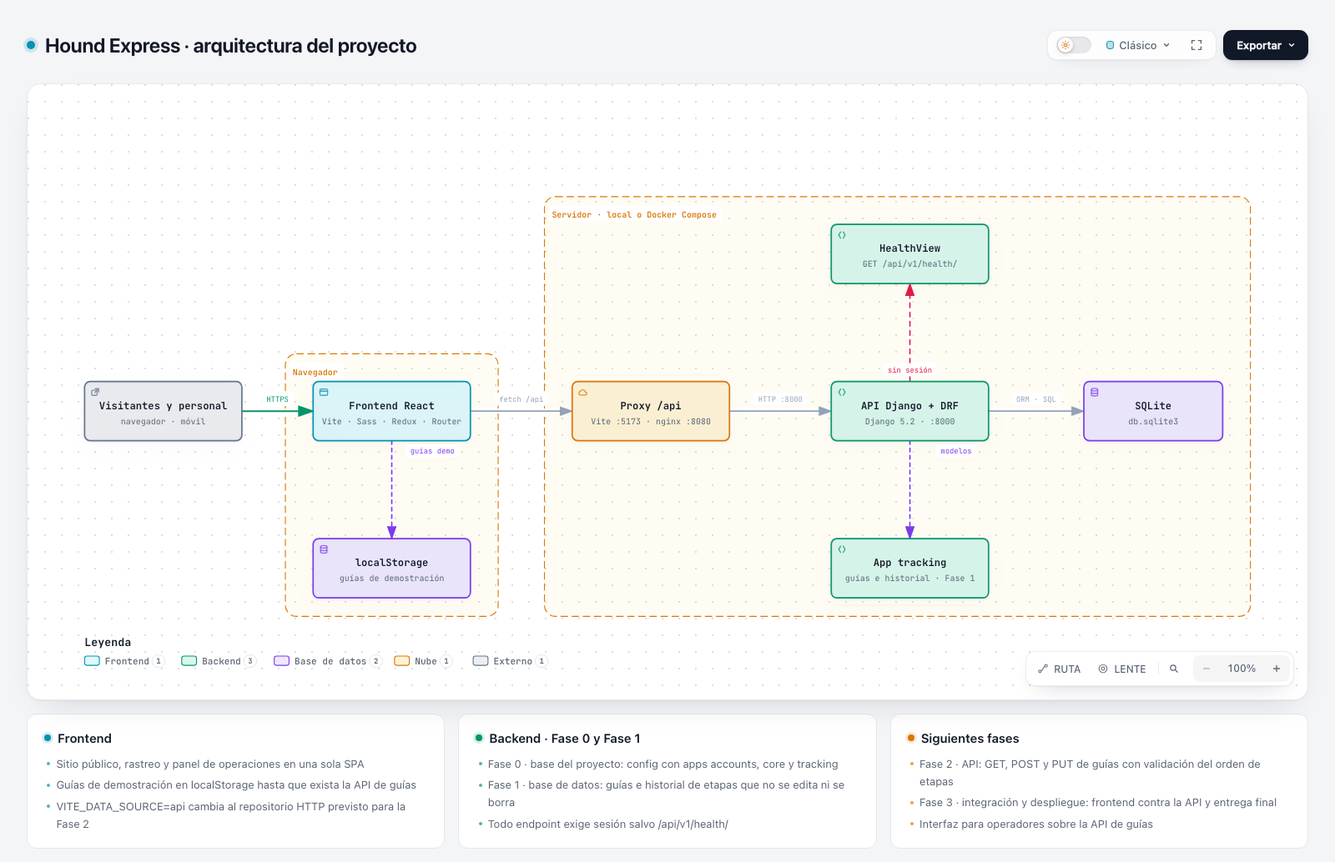
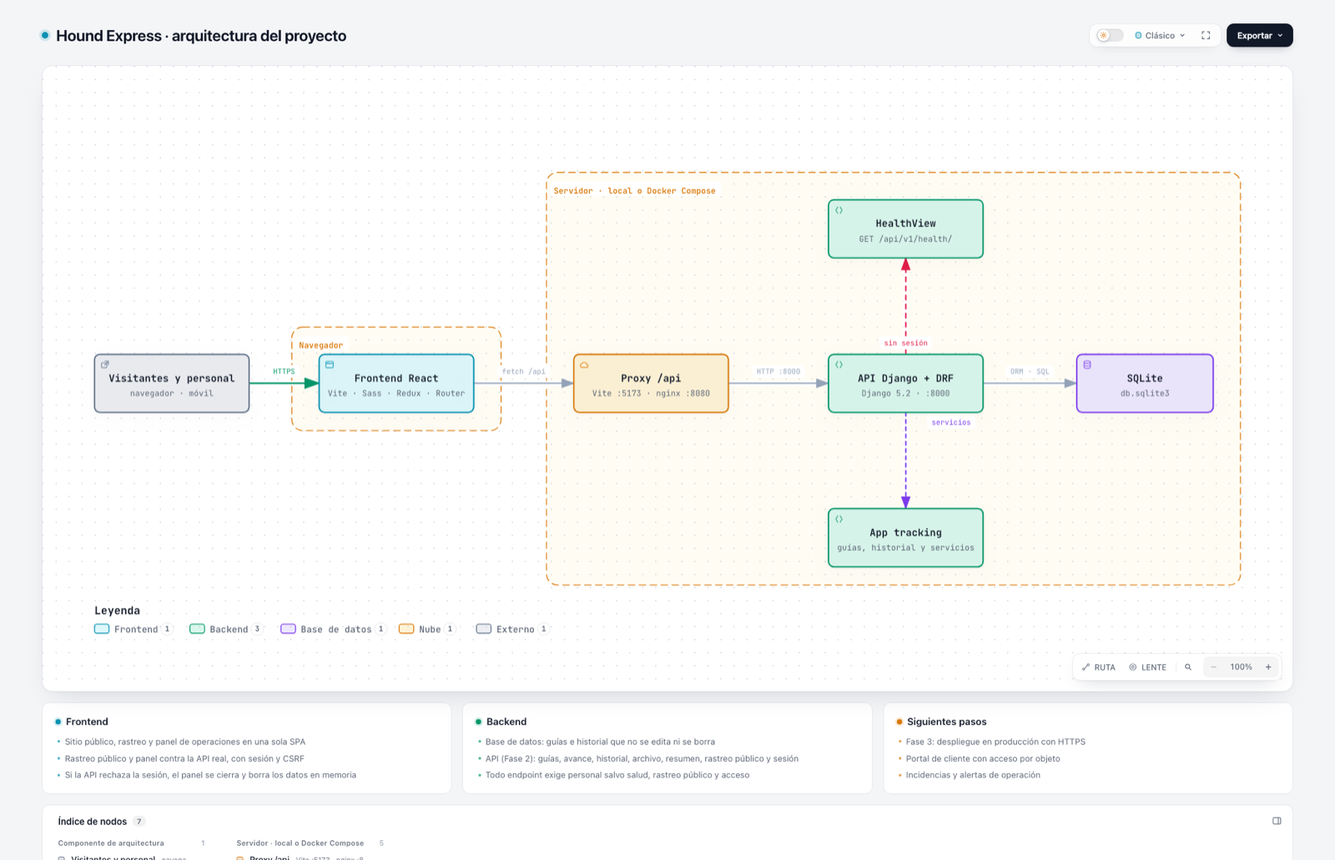
docs(diagramas): actualiza arquitectura y secuencia con la API real

diff --git a/docs/diagramas/arquitectura.html b/docs/diagramas/arquitectura.html
@@ -5013,7 +5013,7 @@ OTHER DEALINGS IN THE FONT SOFTWARE.
         <rect width="100%" height="100%" fill="url(#grid)" />
 
         <!-- Boundaries (behind everything) -->
-        <rect data-graph-role="structural-frame" data-composition-frame-kind="region" data-composition-frame-id="0" data-composition-frame-label="Navegador" x="257" y="270" width="230" height="284" rx="12" class="c-region" stroke-width="1"/>
+        <rect data-graph-role="structural-frame" data-composition-frame-kind="region" data-composition-frame-id="0" data-composition-frame-label="Navegador" x="257" y="270" width="230" height="114" rx="12" class="c-region" stroke-width="1"/>
 
         <rect data-graph-role="structural-frame" data-composition-frame-kind="region" data-composition-frame-id="1" data-composition-frame-label="Servidor · local o Docker Compose" x="537" y="100" width="763" height="454" rx="12" class="c-region" stroke-width="1"/>
 
@@ -5035,16 +5035,12 @@ OTHER DEALINGS IN THE FONT SOFTWARE.
           <path data-edge-from="api" data-edge-to="db" data-edge-label="ORM · SQL" data-edge-key="3" data-edge-id="api-db" data-composition-points="1017,332;1120,332" data-composition-crossover="halo" data-composition-independent="true" d="M 1017 332 L 1120 332" class="a-default" stroke-width="1.5" marker-end="url(#arrowhead)"/>
         </g>
         <g data-graph-role="automatic-crossover" style="--step:4">
-          <path data-graph-role="automatic-crossover-underlay" d="M 372 364 L 372 470" fill="none" stroke="var(--mask)" stroke-width="5.5" stroke-linecap="round" stroke-linejoin="round" pointer-events="none"/>
-          <path data-edge-from="spa" data-edge-to="storage" data-edge-label="guías demo" data-edge-key="4" data-edge-id="spa-storage" data-composition-points="372,364;372,470" data-composition-crossover="halo" d="M 372 364 L 372 470" class="a-dashed" stroke-width="1.5" marker-end="url(#arrowhead-dashed)"/>
+          <path data-graph-role="automatic-crossover-underlay" d="M 932 364 L 932 470" fill="none" stroke="var(--mask)" stroke-width="5.5" stroke-linecap="round" stroke-linejoin="round" pointer-events="none"/>
+          <path data-edge-from="api" data-edge-to="tracking" data-edge-label="servicios" data-edge-key="4" data-edge-id="api-tracking" data-composition-points="932,364;932,470" data-composition-crossover="halo" d="M 932 364 L 932 470" class="a-dashed" stroke-width="1.5" marker-end="url(#arrowhead-dashed)"/>
         </g>
         <g data-graph-role="automatic-crossover" style="--step:5">
-          <path data-graph-role="automatic-crossover-underlay" d="M 932 364 L 932 470" fill="none" stroke="var(--mask)" stroke-width="5.5" stroke-linecap="round" stroke-linejoin="round" pointer-events="none"/>
-          <path data-edge-from="api" data-edge-to="tracking" data-edge-label="modelos" data-edge-key="5" data-edge-id="api-tracking" data-composition-points="932,364;932,470" data-composition-crossover="halo" d="M 932 364 L 932 470" class="a-dashed" stroke-width="1.5" marker-end="url(#arrowhead-dashed)"/>
-        </g>
-        <g data-graph-role="automatic-crossover" style="--step:6">
           <path data-graph-role="automatic-crossover-underlay" d="M 932 300 L 932 194" fill="none" stroke="var(--mask)" stroke-width="5.5" stroke-linecap="round" stroke-linejoin="round" pointer-events="none"/>
-          <path data-edge-from="api" data-edge-to="health" data-edge-label="sin sesión" data-edge-key="6" data-edge-id="api-health" data-composition-points="932,300;932,194" data-composition-crossover="halo" data-composition-independent="true" d="M 932 300 L 932 194" class="a-security" stroke-width="1.5" marker-end="url(#arrowhead-security)"/>
+          <path data-edge-from="api" data-edge-to="health" data-edge-label="sin sesión" data-edge-key="5" data-edge-id="api-health" data-composition-points="932,300;932,194" data-composition-crossover="halo" data-composition-independent="true" d="M 932 300 L 932 194" class="a-security" stroke-width="1.5" marker-end="url(#arrowhead-security)"/>
         </g>
 
         <!-- Components -->
@@ -5108,27 +5104,15 @@ OTHER DEALINGS IN THE FONT SOFTWARE.
         <text data-detail="context" x="1195" y="346" class="t-muted" font-size="9" text-anchor="middle">db.sqlite3</text>
         </g>
 
-        <g id="node-storage" data-node-id="storage" data-node-label="localStorage" tabindex="0" role="button" aria-label="Enfocar localStorage, guías de demostración, Navegador" aria-pressed="false" data-node-kind="database" data-node-sublabel="guías de demostración" data-node-context="Navegador">
-          <title>localStorage · guías de demostración · Navegador</title>
-          <rect x="287" y="470" width="170" height="64" rx="6" class="c-mask"/>
-          <rect x="287" y="470" width="170" height="64" rx="6" class="c-database" stroke-width="1.5"/>
-          <g aria-hidden="true" data-semantic-sigil="database" class="semantic-sigil s-database" transform="translate(293 476) scale(0.6875)">
-            <ellipse cx="8" cy="4" rx="5" ry="2"/>
-            <path d="M3 4v8c0 1.1 2.2 2 5 2s5-.9 5-2V4M3 8c0 1.1 2.2 2 5 2s5-.9 5-2"/>
-          </g>
-          <text data-node-label="" data-detail-anchor="" x="372" y="500" class="t-primary" font-size="11" font-weight="600" text-anchor="middle">localStorage</text>
-        <text data-detail="context" x="372" y="516" class="t-muted" font-size="9" text-anchor="middle">guías de demostración</text>
-        </g>
-
-        <g id="node-tracking" data-node-id="tracking" data-node-label="App tracking" tabindex="0" role="button" aria-label="Enfocar App tracking, guías e historial · Fase 1, Servidor · local o Docker Compose" aria-pressed="false" data-node-kind="backend" data-node-sublabel="guías e historial · Fase 1" data-node-tag="modelos" data-node-context="Servidor · local o Docker Compose">
-          <title>App tracking · guías e historial · Fase 1 · Servidor · local o Docker Compose · modelos</title>
+        <g id="node-tracking" data-node-id="tracking" data-node-label="App tracking" tabindex="0" role="button" aria-label="Enfocar App tracking, guías, historial y servicios, Servidor · local o Docker Compose" aria-pressed="false" data-node-kind="backend" data-node-sublabel="guías, historial y servicios" data-node-tag="modelos" data-node-context="Servidor · local o Docker Compose">
+          <title>App tracking · guías, historial y servicios · Servidor · local o Docker Compose · modelos</title>
           <rect x="847" y="470" width="170" height="64" rx="6" class="c-mask"/>
           <rect x="847" y="470" width="170" height="64" rx="6" class="c-backend" stroke-width="1.5"/>
           <g aria-hidden="true" data-semantic-sigil="backend" class="semantic-sigil s-backend" transform="translate(853 476) scale(0.6875)">
             <path d="M6 3 3 8l3 5M10 3l3 5-3 5"/>
           </g>
           <text data-node-label="" data-detail-anchor="" x="932" y="500" class="t-primary" font-size="11" font-weight="600" text-anchor="middle">App tracking</text>
-        <text data-detail="context" x="932" y="516" class="t-muted" font-size="9" text-anchor="middle">guías e historial · Fase 1</text>
+        <text data-detail="context" x="932" y="516" class="t-muted" font-size="9" text-anchor="middle">guías, historial y servicios</text>
         <text data-detail="fine" x="932" y="526" class="t-backend" font-size="7" text-anchor="middle">modelos</text>
         </g>
 
@@ -5161,15 +5145,11 @@ OTHER DEALINGS IN THE FONT SOFTWARE.
           <rect x="1041.9" y="312" width="53.199999999999996" height="14" rx="3" class="c-mask"/>
           <text x="1068.5" y="322" class="t-edge-default" font-size="8" text-anchor="middle">ORM · SQL</text>
         </g>
-        <g data-detail="context" data-edge-from="spa" data-edge-to="storage" data-edge-label="guías demo" data-edge-key="4" data-edge-id="spa-storage">
-          <rect x="387" y="368" width="58" height="14" rx="3" class="c-mask"/>
-          <text x="416" y="378" class="t-edge-dashed" font-size="8" text-anchor="middle">guías demo</text>
+        <g data-detail="context" data-edge-from="api" data-edge-to="tracking" data-edge-label="servicios" data-edge-key="4" data-edge-id="api-tracking">
+          <rect x="955.4" y="368" width="53.199999999999996" height="14" rx="3" class="c-mask"/>
+          <text x="982" y="378" class="t-edge-dashed" font-size="8" text-anchor="middle">servicios</text>
         </g>
-        <g data-detail="context" data-edge-from="api" data-edge-to="tracking" data-edge-label="modelos" data-edge-key="5" data-edge-id="api-tracking">
-          <rect x="960.2" y="368" width="43.6" height="14" rx="3" class="c-mask"/>
-          <text x="982" y="378" class="t-edge-dashed" font-size="8" text-anchor="middle">modelos</text>
-        </g>
-        <g data-detail="context" data-edge-from="api" data-edge-to="health" data-edge-label="sin sesión" data-edge-key="6" data-edge-id="api-health">
+        <g data-detail="context" data-edge-from="api" data-edge-to="health" data-edge-label="sin sesión" data-edge-key="5" data-edge-id="api-health">
           <rect x="903" y="280" width="58" height="14" rx="3" class="c-mask"/>
           <text x="932" y="290" class="t-edge-security" font-size="8" text-anchor="middle">sin sesión</text>
         </g>
@@ -5392,32 +5372,32 @@ OTHER DEALINGS IN THE FONT SOFTWARE.
         </div>
         <ul>
           <li>Sitio público, rastreo y panel de operaciones en una sola SPA</li>
-          <li>Guías de demostración en localStorage hasta que exista la API de guías</li>
-          <li>VITE_DATA_SOURCE=api cambia al repositorio HTTP previsto para la Fase 2</li>
+          <li>Rastreo público y panel contra la API real, con sesión y CSRF</li>
+          <li>Si la API rechaza la sesión, el panel se cierra y borra los datos en memoria</li>
         </ul>
       </div>
 
       <div class="card">
         <div class="card-header">
           <div class="card-dot emerald"></div>
-          <h3>Backend · Fase 0 y Fase 1</h3>
+          <h3>Backend</h3>
         </div>
         <ul>
-          <li>Fase 0 · base del proyecto: config con apps accounts, core y tracking</li>
-          <li>Fase 1 · base de datos: guías e historial de etapas que no se edita ni se borra</li>
-          <li>Todo endpoint exige sesión salvo /api/v1/health/</li>
+          <li>Base de datos: guías e historial que no se edita ni se borra</li>
+          <li>API (Fase 2): guías, avance, historial, archivo, resumen, rastreo público y sesión</li>
+          <li>Todo endpoint exige personal salvo salud, rastreo público y acceso</li>
         </ul>
       </div>
 
       <div class="card">
         <div class="card-header">
           <div class="card-dot amber"></div>
-          <h3>Siguientes fases</h3>
+          <h3>Siguientes pasos</h3>
         </div>
         <ul>
-          <li>Fase 2 · API: GET, POST y PUT de guías con validación del orden de etapas</li>
-          <li>Fase 3 · integración y despliegue: frontend contra la API y entrega final</li>
-          <li>Interfaz para operadores sobre la API de guías</li>
+          <li>Fase 3: despliegue en producción con HTTPS</li>
+          <li>Portal de cliente con acceso por objeto</li>
+          <li>Incidencias y alertas de operación</li>
         </ul>
       </div>
     </div>

diff --git a/docs/diagramas/secuencia-consultas.html b/docs/diagramas/secuencia-consultas.html
@@ -5135,19 +5135,19 @@ OTHER DEALINGS IN THE FONT SOFTWARE.
         </g>
         </g>
 
-        <g data-edge-from="repo" data-edge-to="api" data-edge-label="GET /api/v1/guides/{n}/" data-edge-key="11" data-edge-id="api-http">
-          <path data-composition-edge-from="repo" data-composition-edge-to="api" data-composition-edge-id="api-http" data-composition-points="478,575;634.75,575" d="M 478 575 L 634.75 575" class="a-dashed" stroke-width="1.4" marker-end="url(#arrowhead-dashed)"/>
+        <g data-edge-from="repo" data-edge-to="api" data-edge-label="GET /api/v1/public/track/?numbers=n" data-edge-key="11" data-edge-id="api-http">
+          <path data-composition-edge-from="repo" data-composition-edge-to="api" data-composition-edge-id="api-http" data-composition-points="478,575;634.75,575" d="M 478 575 L 634.75 575" class="a-default" stroke-width="1.4" marker-end="url(#arrowhead)"/>
         <g data-detail="context">
-          <rect x="474.475" y="555" width="163.79999999999998" height="18" rx="3" class="c-mask"/>
-          <text x="556.375" y="565" class="t-edge-dashed" font-size="11" text-anchor="middle">GET /api/v1/guides/{n}/</text>
+          <rect x="434.875" y="555" width="243" height="18" rx="3" class="c-mask"/>
+          <text x="556.375" y="565" class="t-muted" font-size="11" text-anchor="middle">GET /api/v1/public/track/?numbers=n</text>
         </g>
         </g>
 
         <g data-edge-from="api" data-edge-to="db" data-edge-label="guía e historial" data-edge-key="12" data-edge-id="api-query">
-          <path data-composition-edge-from="api" data-composition-edge-to="db" data-composition-edge-id="api-query" data-composition-points="648.75,605;805.5,605" d="M 648.75 605 L 805.5 605" class="a-dashed" stroke-width="1.4" marker-end="url(#arrowhead-dashed)"/>
+          <path data-composition-edge-from="api" data-composition-edge-to="db" data-composition-edge-id="api-query" data-composition-points="648.75,605;805.5,605" d="M 648.75 605 L 805.5 605" class="a-default" stroke-width="1.4" marker-end="url(#arrowhead)"/>
         <g data-detail="context">
           <rect x="668.325" y="585" width="117.6" height="18" rx="3" class="c-mask"/>
-          <text x="727.125" y="595" class="t-edge-dashed" font-size="11" text-anchor="middle">guía e historial</text>
+          <text x="727.125" y="595" class="t-muted" font-size="11" text-anchor="middle">guía e historial</text>
         </g>
         </g>
 
@@ -5181,12 +5181,12 @@ OTHER DEALINGS IN THE FONT SOFTWARE.
           <text x="62" y="141" class="t-dim" font-size="9" font-weight="600">Estado de la API · real desde la Fase 0</text>
         </g>
         <g data-graph-role="segment-label" data-segment-id="1">
-          <rect x="56" y="303" width="175.20000000000002" height="18" rx="3" class="c-mask"/>
-          <text x="62" y="316" class="t-dim" font-size="9" font-weight="600">Rastreo · datos de demostración</text>
+          <rect x="56" y="303" width="180.4" height="18" rx="3" class="c-mask"/>
+          <text x="62" y="316" class="t-dim" font-size="9" font-weight="600">Pruebas · repositorio en memoria</text>
         </g>
         <g data-graph-role="segment-label" data-segment-id="2">
-          <rect x="56" y="458" width="216.8" height="18" rx="3" class="c-mask"/>
-          <text x="62" y="471" class="t-dim" font-size="9" font-weight="600">Rastreo · VITE_DATA_SOURCE=api (Fase 2)</text>
+          <rect x="56" y="458" width="190.8" height="18" rx="3" class="c-mask"/>
+          <text x="62" y="471" class="t-dim" font-size="9" font-weight="600">Rastreo público contra la API real</text>
         </g>
 
         <!-- Participants -->
@@ -5216,8 +5216,8 @@ OTHER DEALINGS IN THE FONT SOFTWARE.
           <text data-detail="context" x="300.25" y="122" class="t-muted" font-size="7" text-anchor="middle">páginas y hooks</text>
         </g>
 
-        <g id="node-repo" data-node-id="repo" data-node-label="GuideRepository" tabindex="0" role="button" aria-label="Enfocar GuideRepository, demo o HTTP, Participante de secuencia" aria-pressed="false" data-node-kind="frontend" data-node-sublabel="demo o HTTP" data-node-context="Participante de secuencia">
-          <title>GuideRepository · demo o HTTP · Participante de secuencia</title>
+        <g id="node-repo" data-node-id="repo" data-node-label="GuideRepository" tabindex="0" role="button" aria-label="Enfocar GuideRepository, cliente HTTP, Participante de secuencia" aria-pressed="false" data-node-kind="frontend" data-node-sublabel="cliente HTTP" data-node-context="Participante de secuencia">
+          <title>GuideRepository · cliente HTTP · Participante de secuencia</title>
           <rect x="403.5" y="72" width="135" height="60" rx="6" class="c-mask"/>
           <rect x="403.5" y="72" width="135" height="60" rx="6" class="c-frontend" stroke-width="1.5"/>
           <g aria-hidden="true" data-semantic-sigil="frontend" class="semantic-sigil s-frontend" transform="translate(409.5 78) scale(0.6875)">
@@ -5227,7 +5227,7 @@ OTHER DEALINGS IN THE FONT SOFTWARE.
             <circle cx="6.3" cy="4.8" r=".7" class="sigil-fill"/>
           </g>
           <text data-node-label="" data-detail-anchor="" x="471" y="108" class="t-primary" font-size="11" font-weight="600" text-anchor="middle">GuideRepository</text>
-          <text data-detail="context" x="471" y="122" class="t-muted" font-size="7" text-anchor="middle">demo o HTTP</text>
+          <text data-detail="context" x="471" y="122" class="t-muted" font-size="7" text-anchor="middle">cliente HTTP</text>
         </g>
 
         <g id="node-api" data-node-id="api" data-node-label="API Django" tabindex="0" role="button" aria-label="Enfocar API Django, /api/v1/, Participante de secuencia" aria-pressed="false" data-node-kind="backend" data-node-sublabel="/api/v1/" data-node-context="Participante de secuencia">
@@ -5264,13 +5264,9 @@ OTHER DEALINGS IN THE FONT SOFTWARE.
             <path d="M 200 751 L 234 751" class="a-default" stroke-width="1.4" stroke-dasharray="3,5" marker-end="url(#arrowhead)"/>
             <text x="243" y="754" class="t-muted" font-size="10" font-weight="500">respuesta</text>
           </g>
-          <g data-legend-semantic-kind="dashed" data-legend-x="310" data-legend-baseline="754" data-legend-width="118">
-            <path d="M 310 751 L 344 751" class="a-dashed" stroke-width="1.4" marker-end="url(#arrowhead-dashed)"/>
-            <text x="353" y="754" class="t-muted" font-size="10" font-weight="500">traza asíncrona</text>
-          </g>
-          <g data-legend-semantic-kind="default" data-legend-x="450" data-legend-baseline="754" data-legend-width="78">
-            <path d="M 450 751 L 484 751" class="a-default" stroke-width="1.4" marker-end="url(#arrowhead)"/>
-            <text x="493" y="754" class="t-muted" font-size="10" font-weight="500">mensaje</text>
+          <g data-legend-semantic-kind="default" data-legend-x="310" data-legend-baseline="754" data-legend-width="78">
+            <path d="M 310 751 L 344 751" class="a-default" stroke-width="1.4" marker-end="url(#arrowhead)"/>
+            <text x="353" y="754" class="t-muted" font-size="10" font-weight="500">mensaje</text>
           </g>
         </g>
       </svg>
@@ -5464,23 +5460,23 @@ OTHER DEALINGS IN THE FONT SOFTWARE.
       <div class="card">
         <div class="card-header">
           <div class="card-dot amber"></div>
-          <h3>Demostración</h3>
+          <h3>Pruebas</h3>
         </div>
         <ul>
-          <li>demoRepository lee y escribe guías en localStorage</li>
-          <li>La interfaz lo indica con el aviso de datos de demostración</li>
+          <li>demoRepository solo se usa en las pruebas de Jest</li>
+          <li>La interfaz usa la API por defecto</li>
         </ul>
       </div>
 
       <div class="card">
         <div class="card-header">
           <div class="card-dot cyan"></div>
-          <h3>Cuando llegue la Fase 2</h3>
+          <h3>Rastreo real</h3>
         </div>
         <ul>
-          <li>httpRepository llama a /api/v1/guides/</li>
-          <li>404 se muestra como guía no encontrada</li>
-          <li>Los mensajes punteados todavía no existen en el backend</li>
+          <li>GuideRepository normaliza el número y llama a la API</li>
+          <li>Responde con campos mínimos y una ciudad de la lista cerrada</li>
+          <li>Un número inexistente se muestra como no encontrado</li>
         </ul>
       </div>
     </div>

diff --git a/docs/diagramas/fuentes/generar.py b/docs/diagramas/fuentes/generar.py
@@ -53,9 +53,7 @@ def architecture() -> dict:
         x += width
     pos = {c["id"]: c["pos"] for c in components}
     components += [
-        {"id": "storage", "type": "database", "label": "localStorage", "sublabel": "guías de demostración",
-         "pos": [pos["spa"][0], 470], "size": [170, h]},
-        {"id": "tracking", "type": "backend", "label": "App tracking", "sublabel": "guías e historial · Fase 1",
+        {"id": "tracking", "type": "backend", "label": "App tracking", "sublabel": "guías, historial y servicios",
          "pos": [pos["api"][0], 470], "size": [170, h], "tag": "modelos"},
         {"id": "health", "type": "backend", "label": "HealthView", "sublabel": "GET /api/v1/health/",
          "pos": [pos["api"][0], 130], "size": [170, h], "tag": "público"},
@@ -66,7 +64,7 @@ def architecture() -> dict:
         "meta": meta("Hound Express · arquitectura del proyecto", "arquitectura"),
         "components": components,
         "boundaries": [
-            {"kind": "region", "label": "Navegador", "wraps": ["spa", "storage"]},
+            {"kind": "region", "label": "Navegador", "wraps": ["spa"]},
             {"kind": "region", "label": "Servidor · local o Docker Compose",
              "wraps": ["proxy", "api", "db", "tracking", "health"]},
         ],
@@ -75,9 +73,7 @@ def architecture() -> dict:
             {"id": "spa-proxy", "from": "spa", "to": "proxy", "label": "fetch /api"},
             {"id": "proxy-api", "from": "proxy", "to": "api", "label": "HTTP :8000"},
             {"id": "api-db", "from": "api", "to": "db", "label": "ORM · SQL"},
-            {"id": "spa-storage", "from": "spa", "to": "storage", "label": "guías demo", "variant": "dashed",
-             "fromSide": "bottom", "toSide": "top", "labelAt": [416, 378]},
-            {"id": "api-tracking", "from": "api", "to": "tracking", "label": "modelos", "variant": "dashed",
+            {"id": "api-tracking", "from": "api", "to": "tracking", "label": "servicios", "variant": "dashed",
              "fromSide": "bottom", "toSide": "top", "labelAt": [982, 378]},
             {"id": "api-health", "from": "api", "to": "health", "label": "sin sesión", "variant": "security",
              "fromSide": "top", "toSide": "bottom"},
@@ -85,16 +81,16 @@ def architecture() -> dict:
         "cards": [
             {"dot": "cyan", "title": "Frontend", "items": [
                 "Sitio público, rastreo y panel de operaciones en una sola SPA",
-                "Guías de demostración en localStorage hasta que exista la API de guías",
-                "VITE_DATA_SOURCE=api cambia al repositorio HTTP previsto para la Fase 2"]},
-            {"dot": "emerald", "title": "Backend · Fase 0 y Fase 1", "items": [
-                "Fase 0 · base del proyecto: config con apps accounts, core y tracking",
-                "Fase 1 · base de datos: guías e historial de etapas que no se edita ni se borra",
-                "Todo endpoint exige sesión salvo /api/v1/health/"]},
-            {"dot": "amber", "title": "Siguientes fases", "items": [
-                "Fase 2 · API: GET, POST y PUT de guías con validación del orden de etapas",
-                "Fase 3 · integración y despliegue: frontend contra la API y entrega final",
-                "Interfaz para operadores sobre la API de guías"]},
+                "Rastreo público y panel contra la API real, con sesión y CSRF",
+                "Si la API rechaza la sesión, el panel se cierra y borra los datos en memoria"]},
+            {"dot": "emerald", "title": "Backend", "items": [
+                "Base de datos: guías e historial que no se edita ni se borra",
+                "API (Fase 2): guías, avance, historial, archivo, resumen, rastreo público y sesión",
+                "Todo endpoint exige personal salvo salud, rastreo público y acceso"]},
+            {"dot": "amber", "title": "Siguientes pasos", "items": [
+                "Fase 3: despliegue en producción con HTTPS",
+                "Portal de cliente con acceso por objeto",
+                "Incidencias y alertas de operación"]},
         ],
     }
 
@@ -149,14 +145,14 @@ def sequence() -> dict:
         "participants": [
             {"id": "user", "type": "external", "label": "Usuario", "sublabel": "visitante o personal"},
             {"id": "web", "type": "frontend", "label": "Frontend React", "sublabel": "páginas y hooks"},
-            {"id": "repo", "type": "frontend", "label": "GuideRepository", "sublabel": "demo o HTTP"},
+            {"id": "repo", "type": "frontend", "label": "GuideRepository", "sublabel": "cliente HTTP"},
             {"id": "api", "type": "backend", "label": "API Django", "sublabel": "/api/v1/"},
             {"id": "db", "type": "database", "label": "SQLite", "sublabel": "db.sqlite3"},
         ],
         "segments": [
             {"from": 150, "to": 310, "label": "Estado de la API · real desde la Fase 0"},
-            {"from": 325, "to": 465, "label": "Rastreo · datos de demostración"},
-            {"from": 480, "to": 710, "label": "Rastreo · VITE_DATA_SOURCE=api (Fase 2)"},
+            {"from": 325, "to": 465, "label": "Pruebas · repositorio en memoria"},
+            {"from": 480, "to": 710, "label": "Rastreo público contra la API real"},
         ],
         "messages": [
             {"id": "health-get", "from": "web", "to": "api", "y": 175, "label": "GET /api/v1/health/", "variant": "emphasis"},
@@ -170,8 +166,8 @@ def sequence() -> dict:
             {"id": "demo-render", "from": "web", "to": "user", "y": 450, "label": "línea de tiempo", "variant": "return"},
             {"id": "api-input", "from": "user", "to": "web", "y": 515, "label": "número de guía"},
             {"id": "api-get", "from": "web", "to": "repo", "y": 545, "label": "get(número)"},
-            {"id": "api-http", "from": "repo", "to": "api", "y": 575, "label": "GET /api/v1/guides/{n}/", "variant": "dashed"},
-            {"id": "api-query", "from": "api", "to": "db", "y": 605, "label": "guía e historial", "variant": "dashed"},
+            {"id": "api-http", "from": "repo", "to": "api", "y": 575, "label": "GET /api/v1/public/track/?numbers=n"},
+            {"id": "api-query", "from": "api", "to": "db", "y": 605, "label": "guía e historial"},
             {"id": "api-rows", "from": "db", "to": "api", "y": 635, "label": "filas", "variant": "return"},
             {"id": "api-json", "from": "api", "to": "repo", "y": 665, "label": "200 JSON o 404", "variant": "return"},
             {"id": "api-result", "from": "repo", "to": "web", "y": 695, "label": "Guide o null", "variant": "return"},
@@ -192,13 +188,13 @@ def sequence() -> dict:
                 "El panel y el pie consultan /api/v1/health/",
                 "La vista hace SELECT 1 y responde 503 si la base falla",
                 "Vite o nginx reenvían /api al puerto 8000: mismo origen, sin CORS"]},
-            {"dot": "amber", "title": "Demostración", "items": [
-                "demoRepository lee y escribe guías en localStorage",
-                "La interfaz lo indica con el aviso de datos de demostración"]},
-            {"dot": "cyan", "title": "Cuando llegue la Fase 2", "items": [
-                "httpRepository llama a /api/v1/guides/",
-                "404 se muestra como guía no encontrada",
-                "Los mensajes punteados todavía no existen en el backend"]},
+            {"dot": "amber", "title": "Pruebas", "items": [
+                "demoRepository solo se usa en las pruebas de Jest",
+                "La interfaz usa la API por defecto"]},
+            {"dot": "cyan", "title": "Rastreo real", "items": [
+                "GuideRepository normaliza el número y llama a la API",
+                "Responde con campos mínimos y una ciudad de la lista cerrada",
+                "Un número inexistente se muestra como no encontrado"]},
         ],
     }
 
